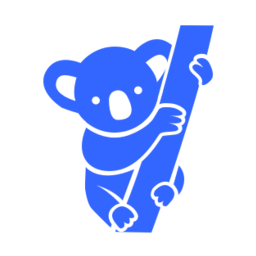
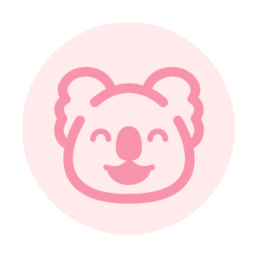
new meta tags and images

diff --git a/index.html b/index.html
@@ -4,34 +4,35 @@
   <!-- META -->
   <meta charset="utf-8" />
   <meta name="viewport" content="width=device-width, initial-scale=1" />
+  <meta name="title" content="Color Koala">
   <meta name="description" content="Color Koala is a quick palette generator, creating gorgeous colors for all of your side projects." />
-  <title> Color Koala - The Koala-ty color palette generator, creating gorgeous colors for all of your side projects.</title>
+  <title> Color Koala | The Koala-ty color palette generator, creating gorgeous colors for all of your side projects.</title>
 
   <!-- FAVICON -->
-  <link rel="apple-touch-icon" sizes="180x180" href="/meta/apple-touch-icon.png" />
-  <link rel="icon" type="image/png" sizes="32x32" href="/meta/favicon-32x32.png" />
-  <link rel="icon" type="image/png" sizes="16x16" href="/meta/favicon-16x16.png" />
-  <link rel="manifest" href="/meta/site.webmanifest" />
-  <link rel="mask-icon" href="/meta/safari-pinned-tab.svg" color="#3366ff" />
-  <link rel="shortcut icon" href="/meta/favicon.ico" />
-  <meta name="msapplication-TileColor" content="#3366ff" />
-  <meta name="msapplication-config" content="/meta/browserconfig.xml" />
-  <meta name="theme-color" content="#ffffff" />
+  <link rel="apple-touch-icon" sizes="180x180" href="/meta/apple-touch-icon.png">
+  <link rel="icon" type="image/png" sizes="32x32" href="/meta/favicon-32x32.png">
+  <link rel="icon" type="image/png" sizes="16x16" href="/meta/favicon-16x16.png">
+  <link rel="manifest" href="/meta/site.webmanifest">
+  <link rel="mask-icon" href="/meta/safari-pinned-tab.svg" color="#f794ab">
+  <link rel="shortcut icon" href="/meta/favicon.ico">
+  <meta name="msapplication-TileColor" content="#ffc40d">
+  <meta name="msapplication-config" content="/meta/browserconfig.xml">
+  <meta name="theme-color" content="#ffffff">
 
   <!-- TWITTER -->
-  <meta property="twitter:card" content="summary_large_image" />
-  <meta property="twitter:url" content="https://colorkoala.xyz" />
-  <meta property="twitter:title" content="Color Koala by Omar Rasool" />
-  <meta property="twitter:description" content="The Koala-ty color palette generator, creating gorgeous colors for all of your side projects." />
-  <meta property="twitter:image" content="meta/tw-thumb.png" />
+  <meta property="twitter:card" content="summary_large_image">
+  <meta property="twitter:url" content="https://colorkoala.xyz">
+  <meta property="twitter:title" content="Color Koala">
+  <meta property="twitter:description" content="The Koala-ty color palette generator, creating gorgeous colors for all of your side projects.">
+  <meta property="twitter:image" content="https://metatags.io/assets/meta-tags-16a33a6a8531e519cc0936fbba0ad904e52d35f34a46c97a2c9f6f7dd7d336f2.png">
 
   <!-- FACEBOOK -->
-  <meta property="og:image" content="/meta/og-image.jpg" />
-  <meta property="og:image:width" content="279" />
-  <meta property="og:image:height" content="279" />
-  <meta property="og:title" content="Color Koala" />
-  <meta property="og:description" content="The Koala-ty color palette generator, creating gorgeous colors for all of your side projects." />
-  <meta property="og:url" content="colorkoala.xyz" />
+  <meta property="og:image" content="/meta/og-image.jpg">
+  <meta property="og:image:width" content="279">
+  <meta property="og:image:height" content="279">
+  <meta property="og:title" content="Color Koala">
+  <meta property="og:description" content="The Koala-ty color palette generator, creating gorgeous colors for all of your side projects.">
+  <meta property="og:url" content="colorkoala.xyz">
 
   <!-- FONTS -->
   <link href="https://fonts.googleapis.com/css?family=Rubik:400,500,700" rel="stylesheet">

diff --git a/styles/_swatch.sass b/styles/_swatch.sass
@@ -21,11 +21,11 @@
     background-repeat: no-repeat
     background-size: contain
 
-
 @media screen and (max-width:768px)
   .swatch
     height: 70px
     line-height: 70px
+
 
 .block
   font-size: 25px
@@ -51,14 +51,12 @@
     background-repeat: no-repeat
     background-size: contain
 
-
 @media screen and (max-width:768px)
   .block
     height: 60px
     line-height: 60px
     font-size: 25px
   
-
 
 @keyframes slide-up 
   0%
